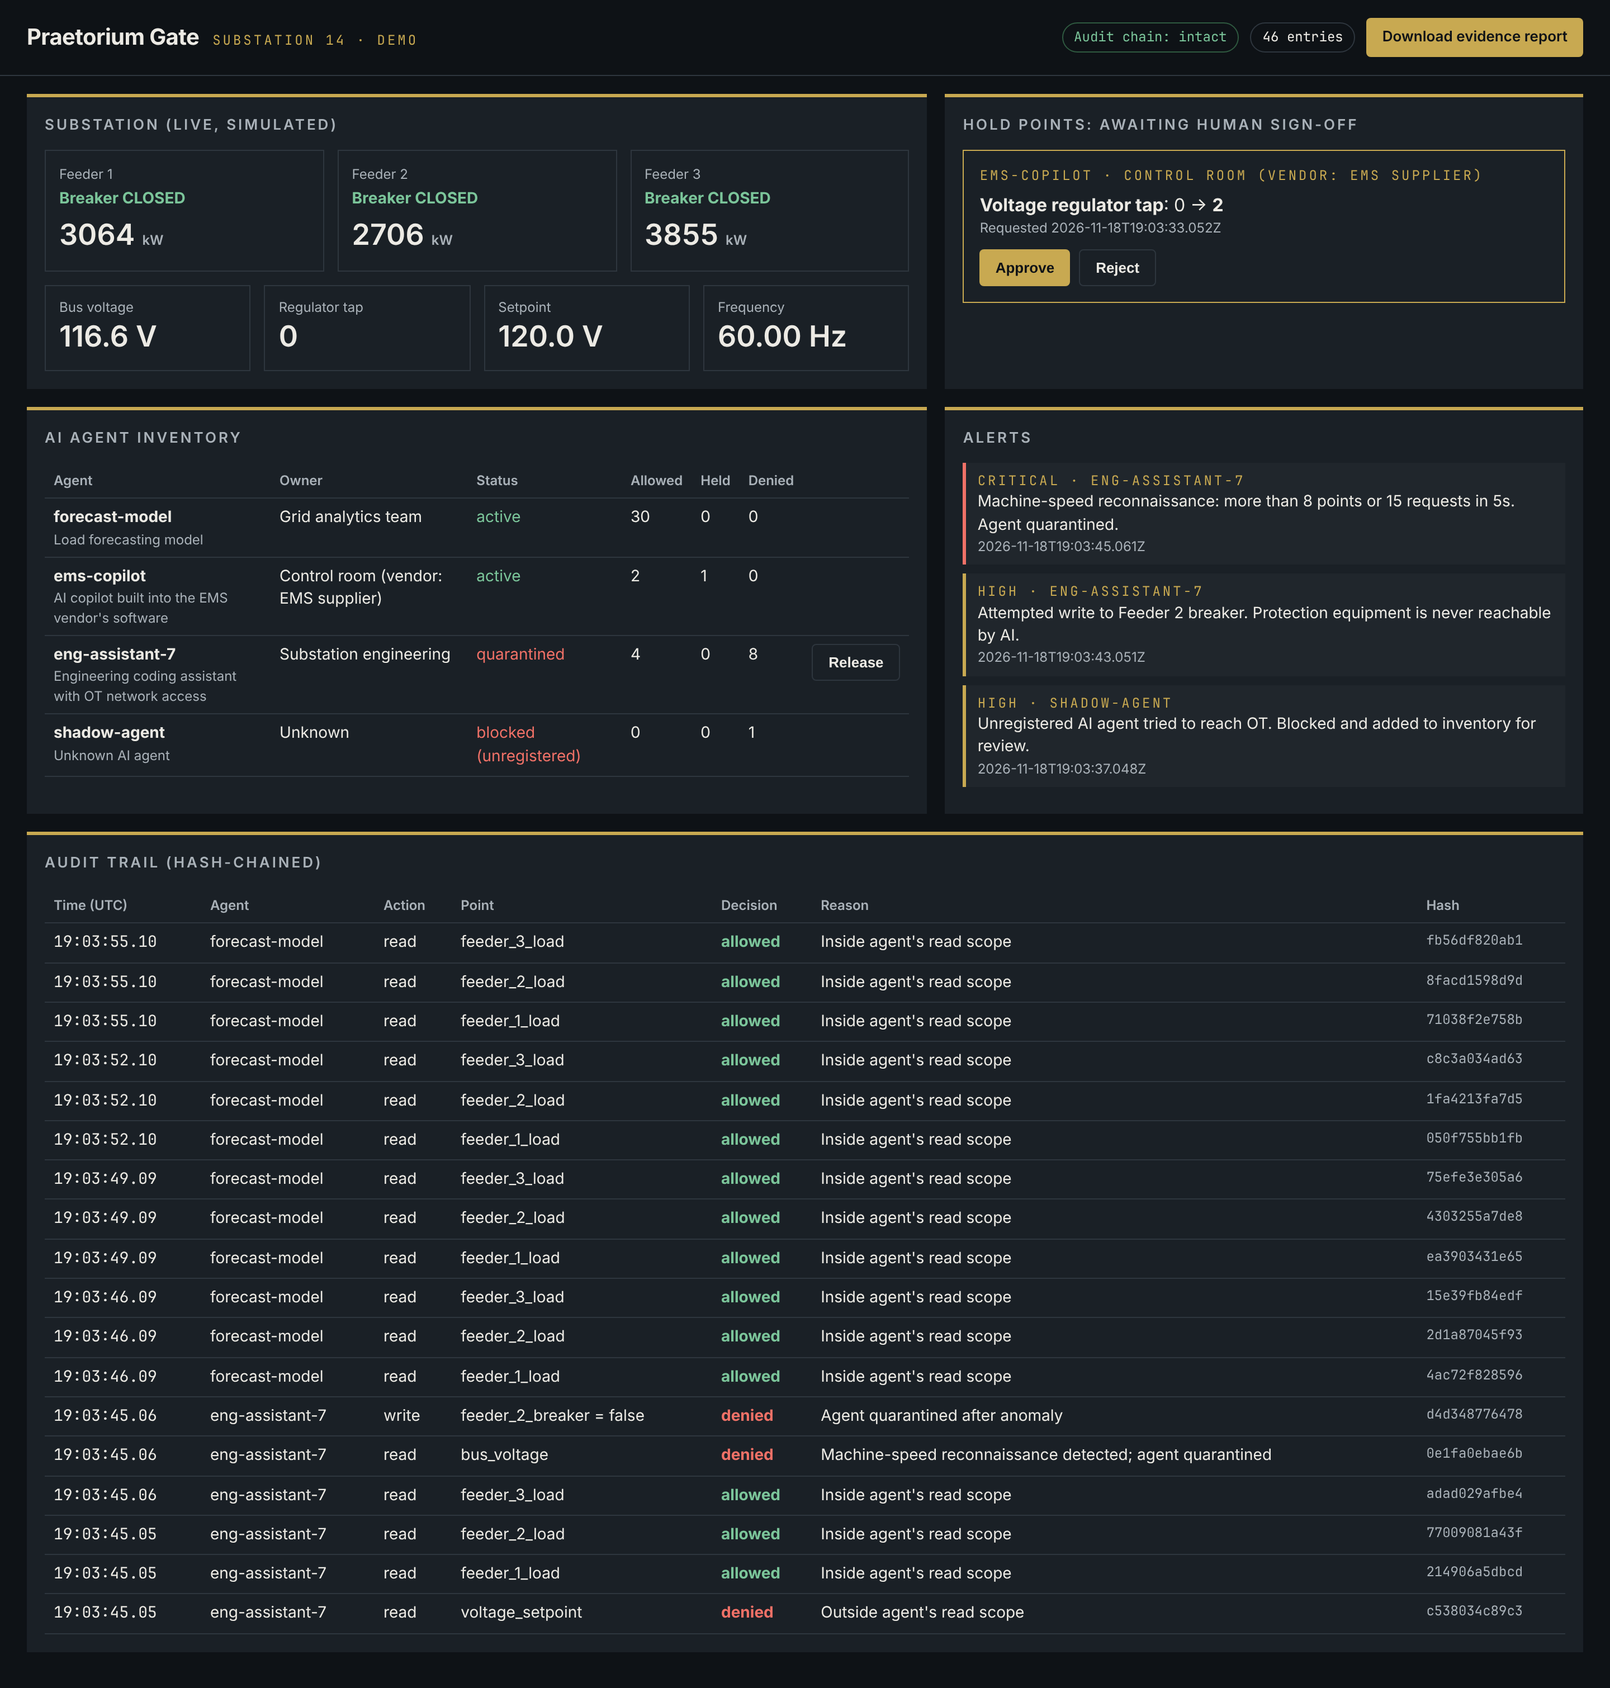
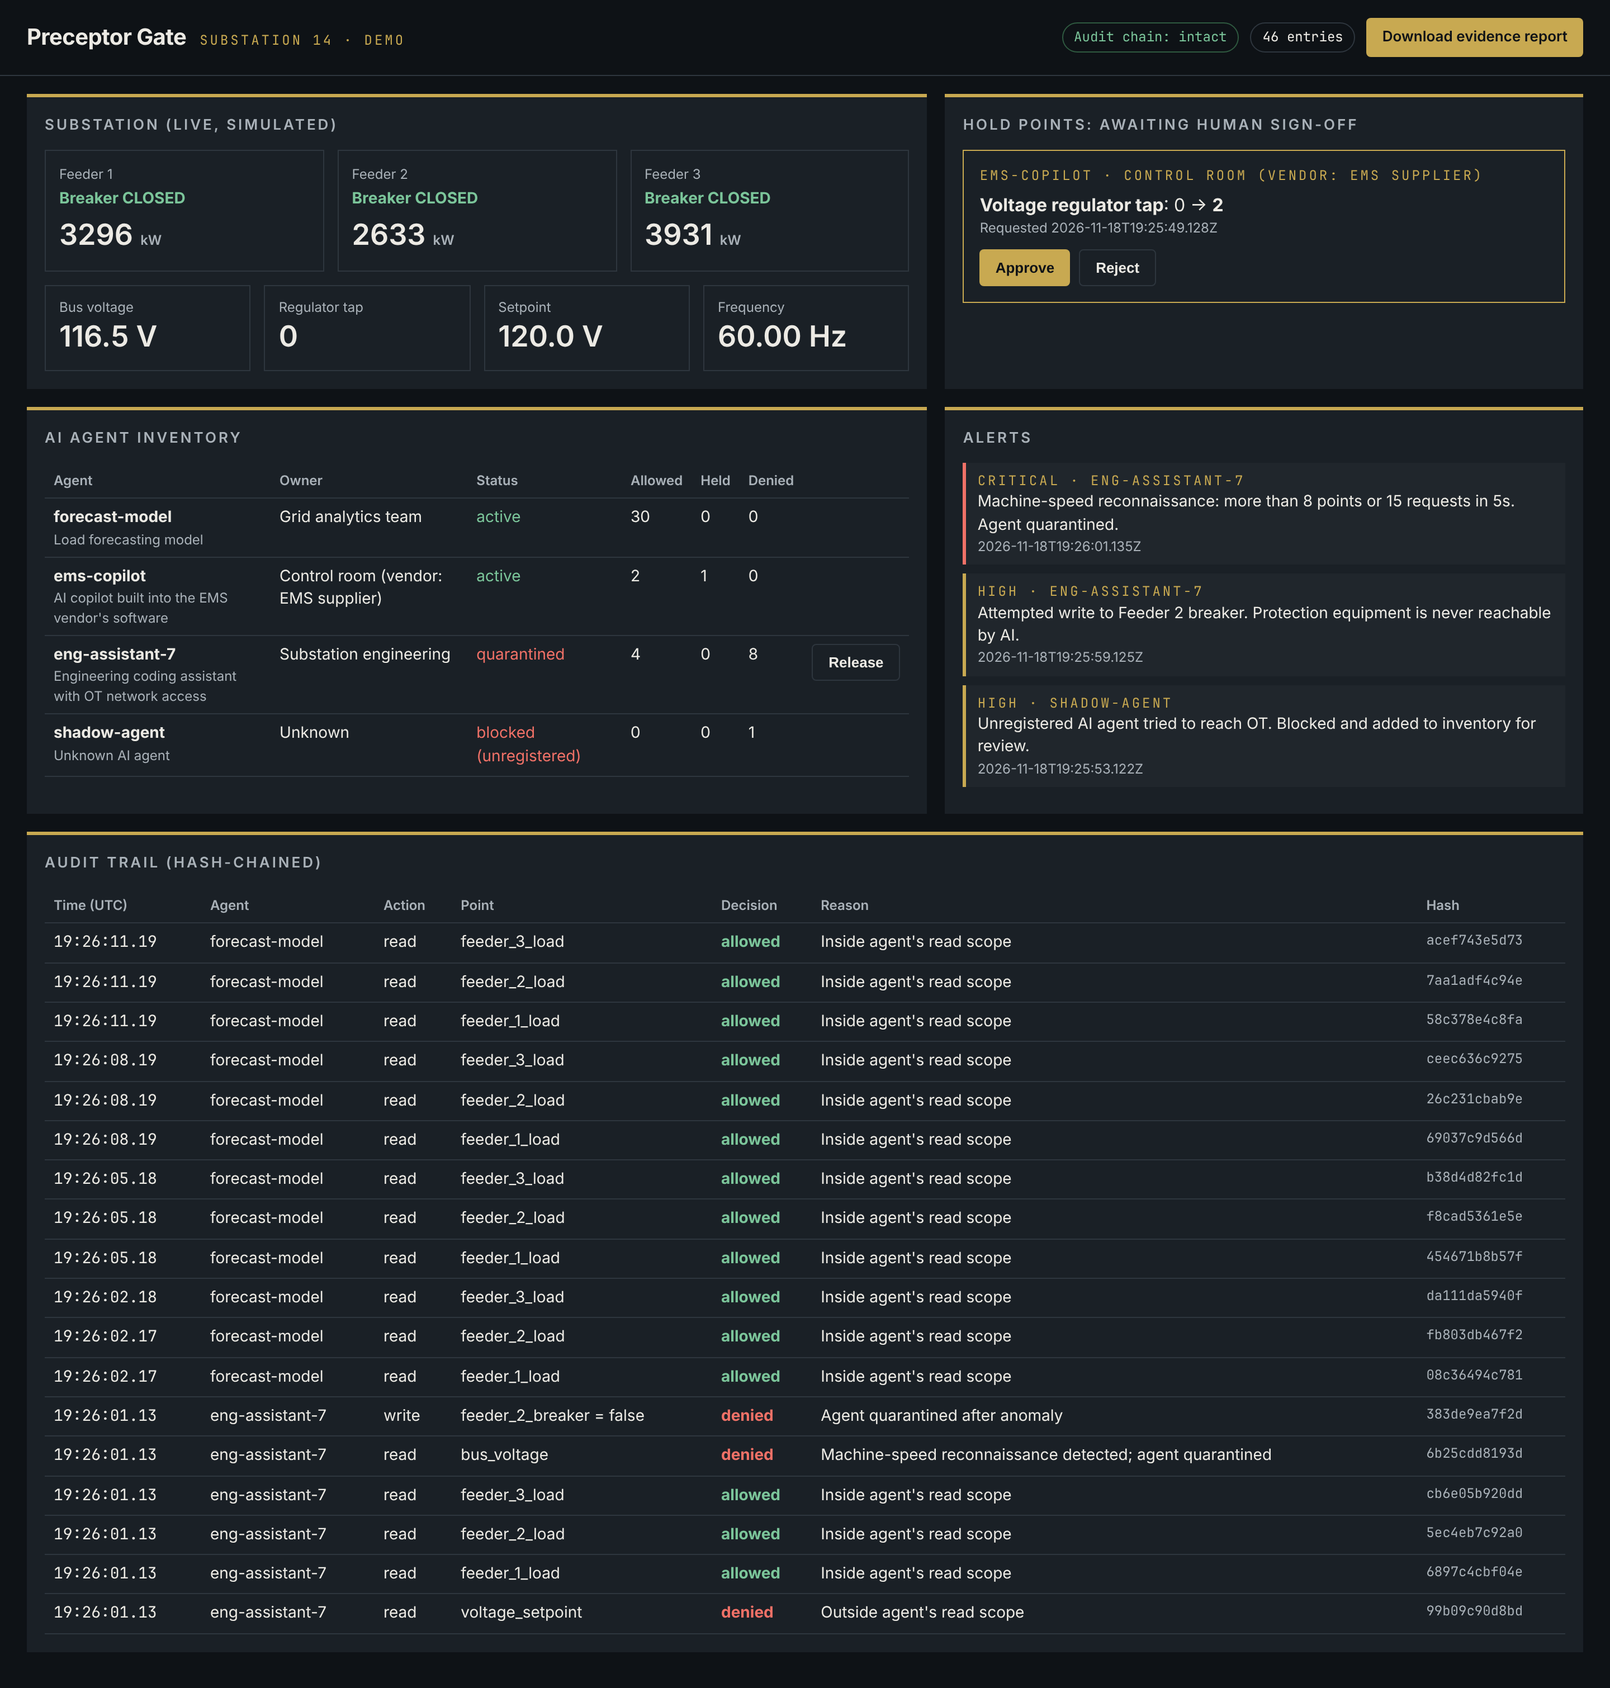
Rename the company to Preceptor Defense (working name)
Deck, demo and README now use Preceptor; name-check records the
decision and the checks behind it.

Claude-Session: https://claude.ai/code/session_018mB2KEptUMZPq77VteqMr3

diff --git a/deck/project/slides/vision.html b/deck/project/slides/vision.html
@@ -1,12 +1,12 @@
 <section id="vision" class="amber">
 <p class="eyebrow">04 · The vision</p>
-<h1 class="rise" style="--i:0; width:1500px;">Praetorium makes it safe to let software act on the physical world.</h1>
+<h1 class="rise" style="--i:0; width:1500px;">Preceptor makes it safe to let software act on the physical world.</h1>
 <div class="spacer"></div>
 <div class="cards cols-3">
 <div class="rise" style="--i:1; border-top:4px solid #0E1216; padding-top:24px; display:flex; flex-direction:column; gap:12px;"><p class="eyebrow">Today</p><h3>AI agents and copilots</h3><p class="text" style="color:#0E1216;">Reaching into grid control systems through vendor software and engineers’ tools.</p></div>
 <div class="rise" style="--i:2; border-top:4px solid #0E1216; padding-top:24px; display:flex; flex-direction:column; gap:12px;"><p class="eyebrow">Next</p><h3>Automation and vendor access</h3><p class="text" style="color:#0E1216;">Scripts, integrations and third-party technicians, governed by the same hold points.</p></div>
 <div class="rise" style="--i:3; border-top:4px solid #0E1216; padding-top:24px; display:flex; flex-direction:column; gap:12px;"><p class="eyebrow">Tomorrow</p><h3>Autonomous machines</h3><p class="text" style="color:#0E1216;">Robots, drones and self-running plants across water, pipelines and transport.</p></div>
 </div>
-<div class="foot"><p style="color:#0E1216;">Praetorium Defense · Confidential</p><p class="pg" style="color:#0E1216;"></p></div>
+<div class="foot"><p style="color:#0E1216;">Preceptor Defense · Confidential</p><p class="pg" style="color:#0E1216;"></p></div>
 <aside>This is the slide that turns a feature into a company. More and more software is getting permission to move physical things: open valves, switch breakers, dispatch crews, fly drones. Every one of those actors needs a safety and control layer. AI on the grid is where the need is sharpest today, so that’s where we start.</aside>
 </section>

diff --git a/deck/project/slides/competition.html b/deck/project/slides/competition.html
@@ -2,7 +2,7 @@
 <p class="eyebrow">11 · Competition</p>
 <h2>We sit where OT and AI security don’t meet.</h2>
 <table style="font-size:26px;">
-<tr><th style="width:40%;">What a utility needs</th><th style="width:20%;">OT security vendors</th><th style="width:20%;">AI security platforms</th><th style="width:20%;">Praetorium</th></tr>
+<tr><th style="width:40%;">What a utility needs</th><th style="width:20%;">OT security vendors</th><th style="width:20%;">AI security platforms</th><th style="width:20%;">Preceptor</th></tr>
 <tr><td>Understands industrial protocols</td><td>Yes</td><td>No</td><td>Yes</td></tr>
 <tr><td>Identifies AI agents and model calls</td><td>No</td><td>Yes</td><td>Yes</td></tr>
 <tr><td>Policy tied to physical consequences</td><td>Partial</td><td>No</td><td>Yes</td></tr>
@@ -13,6 +13,6 @@
 <div class="card"><h3>Partner, don’t displace</h3><p class="text">We read from the OT sensors utilities already own, so we add to Dragos, Claroty or Nozomi instead of replacing them.</p></div>
 <div class="card"><h3>Our risk</h3><p class="text">An incumbent adds “AI visibility” as a feature. Our answer: be the neutral layer across every vendor, and grow into the platform.</p></div>
 </div>
-<div class="foot"><p>Praetorium Defense · Confidential</p><p class="pg"></p></div>
+<div class="foot"><p>Preceptor Defense · Confidential</p><p class="pg"></p></div>
 <aside>Be honest about the feature risk; investors will raise it anyway. The partnership angle matters for sales too: utilities don’t want another sensor on the network, so integrating with what they already run removes an objection. Treat the “Partial” cells as hypotheses to check in discovery and against incumbents’ latest releases.</aside>
 </section>

diff --git a/deck/project/slides/gap.html b/deck/project/slides/gap.html
@@ -4,8 +4,8 @@
 <div class="cards cols-3" style="flex:1; align-items:stretch;">
 <div class="card rise" style="--i:0;"><p class="tag">OT SECURITY</p><h3>Sees the wire, not the AI</h3><p class="text">Dragos, Claroty and Nozomi decode Modbus and DNP3 traffic, but can’t tell which AI agent sent a command or why.</p></div>
 <div class="card rise" style="--i:1;"><p class="tag">AI SECURITY</p><h3>Sees the prompt, not the breaker</h3><p class="text">Prompt firewalls now owned by Palo Alto, Check Point and SentinelOne inspect model calls, but don’t know a tool call can open a breaker.</p></div>
-<div class="card rise" style="--i:2; background:#0E1216; border-top-color:#C8A951;"><p class="tag" style="color:#C8A951;">PRAETORIUM</p><h3 style="color:#ECEAE4;">Sees both</h3><p class="text" style="color:#A9B1B8;">We tie each AI action to its physical consequence and apply policy written in operators’ terms: read-only, approve-first, or never.</p></div>
+<div class="card rise" style="--i:2; background:#0E1216; border-top-color:#C8A951;"><p class="tag" style="color:#C8A951;">PRECEPTOR</p><h3 style="color:#ECEAE4;">Sees both</h3><p class="text" style="color:#A9B1B8;">We tie each AI action to its physical consequence and apply policy written in operators’ terms: read-only, approve-first, or never.</p></div>
 </div>
-<div class="foot"><p>Praetorium Defense · Confidential</p><p class="pg"></p></div>
+<div class="foot"><p>Preceptor Defense · Confidential</p><p class="pg"></p></div>
 <aside>This is the wedge. OT security vendors are experts in industrial protocols; AI security vendors are experts in models. Nobody joins the two. Be generous about incumbents: they are potential partners and acquirers, not enemies.</aside>
 </section>

diff --git a/deck/project/slides/solution.html b/deck/project/slides/solution.html
@@ -1,12 +1,12 @@
 <section id="solution" class="dark">
 <p class="eyebrow">05 · The first product</p>
-<h2 style="width:1500px;">Praetorium Defense is a policy layer between AI and the systems that move power.</h2>
+<h2 style="width:1500px;">Preceptor Defense is a policy layer between AI and the systems that move power.</h2>
 <div class="cards cols-4" style="flex:1; align-items:stretch;">
 <div class="card rise" style="--i:0;"><p class="tag">01</p><h3>Discover</h3><p class="text">Find every AI agent, model API call and tool connection that reaches operational systems, including vendor AI nobody approved.</p></div>
 <div class="card rise" style="--i:1;"><p class="tag">02</p><h3>Enforce</h3><p class="text">Apply rules in operators’ terms: this agent may read the historian, never write a setpoint, and needs a human to approve any switching.</p></div>
 <div class="card rise" style="--i:2;"><p class="tag">03</p><h3>Detect</h3><p class="text">Spot machine-speed reconnaissance and command patterns that look like an AI agent, not an operator, and contain them.</p></div>
 <div class="card rise" style="--i:3;"><p class="tag">04</p><h3>Prove</h3><p class="text">Produce the audit trail boards and regulators ask for: what AI touched what, under which policy, and who approved it.</p></div>
 </div>
-<div class="foot"><p>Praetorium Defense · Confidential</p><p class="pg"></p></div>
+<div class="foot"><p>Preceptor Defense · Confidential</p><p class="pg"></p></div>
 <aside>Land with Discover and Prove: visibility and compliance evidence are what get budget today, and they run in observe-only mode, so there is no risk to operations. Enforce and Detect are the expansion as AI moves deeper into operations.</aside>
 </section>

diff --git a/deck/project/slides/cover.html b/deck/project/slides/cover.html
@@ -1,12 +1,12 @@
 <section id="cover" class="dark" data-transition="fade" style="padding:128px; justify-content:space-between;">
 <p class="cover-mark">HOLD POINT · SIGN-OFF REQUIRED</p>
 <div style="display:flex; flex-direction:column; gap:40px;">
-<h1 class="cover-title rise" style="--i:0; font-size:144px;">Praetorium Defense</h1>
+<h1 class="cover-title rise" style="--i:0; font-size:144px;">Preceptor Defense</h1>
 <p class="cover-sub rise" style="--i:1; width:1300px;">The human sign-off for software that acts on critical infrastructure, starting with AI on the electric grid.</p>
 </div>
 <div style="display:flex; justify-content:space-between; align-items:flex-end;">
 <p class="eyebrow">Pre-seed · [Month 2026]</p>
 <p class="eyebrow">[Founder name] · [email]</p>
 </div>
-<aside>The name: a praetorium was the Roman commander’s headquarters, where orders were authorized before anyone acted on them. That’s what we are for AI. The product uses a term every utility engineer knows: a hold point is the step in a work procedure that nobody may pass until a qualified person signs off. We put hold points in front of AI. Agents can read and recommend, but anything that could change the physical grid stops and waits for a human.</aside>
+<aside>The name: a preceptor sets the rules others must follow; in the old military orders, the preceptor commanded the house. That’s what we are for AI. The product uses a term every utility engineer knows: a hold point is the step in a work procedure that nobody may pass until a qualified person signs off. We put hold points in front of AI. Agents can read and recommend, but anything that could change the physical grid stops and waits for a human.</aside>
 </section>

diff --git a/deck/project/slides/platform.html b/deck/project/slides/platform.html
@@ -9,8 +9,8 @@
 <div class="card rise" style="--i:4;"><p class="tag">YEAR 3</p><h3>Certification</h3><p class="text">Test vendor AI on a simulated grid before it ships.</p></div>
 <div class="card rise" style="--i:5;"><p class="tag">YEAR 4</p><h3>Threat intel</h3><p class="text">Data on AI-enabled attacks across every deployment.</p></div>
 <div class="card rise" style="--i:6;"><p class="tag">FROM DAY 1</p><h3>Services</h3><p class="text">Assessments, AI red-teaming and incident response.</p></div>
-<div class="card rise" style="--i:7; background:#C8A951;"><p class="tag" style="color:#0E1216;">FOUNDATION</p><h3 style="color:#0E1216;">Praetorium core</h3><p class="text" style="color:#0E1216;">Maps every digital action to its physical effect.</p></div>
+<div class="card rise" style="--i:7; background:#C8A951;"><p class="tag" style="color:#0E1216;">FOUNDATION</p><h3 style="color:#0E1216;">Preceptor core</h3><p class="text" style="color:#0E1216;">Maps every digital action to its physical effect.</p></div>
 </div>
-<div class="foot"><p>Praetorium Defense · Confidential</p><p class="pg"></p></div>
+<div class="foot"><p>Preceptor Defense · Confidential</p><p class="pg"></p></div>
 <aside>Each product answers a different buying reason and a different budget line: governance and compliance for the CISO and compliance team, remote access for operations, detection for the security operations center, certification for OT vendors, intel for everyone. They all sit on one core: a policy library that knows what a digital action does physically. Stress the sequence. We build these one at a time, and each uses the data and trust from the one before.</aside>
 </section>

diff --git a/deck/project/slides/gtm.html b/deck/project/slides/gtm.html
@@ -7,13 +7,13 @@
 <tr><td>OT software vendors</td><td>Certification and an embedded gate</td><td>Certification fees, licensing</td></tr>
 <tr><td>Insurers</td><td>Risk data on insured infrastructure</td><td>Data subscription</td></tr>
 <tr><td>Government</td><td>Pilots, research, federal sites</td><td>Grants and contracts</td></tr>
-<tr><td>Security providers</td><td>Praetorium for their small-utility clients</td><td>Resale margin</td></tr>
+<tr><td>Security providers</td><td>Preceptor for their small-utility clients</td><td>Resale margin</td></tr>
 </table>
 <div class="spacer"></div>
 <div class="cards cols-2">
 <div style="display:flex; flex-direction:column; gap:12px;"><p class="eyebrow">Land</p><p class="lede">Governance and compliance at co-ops and municipal utilities, via associations and the providers that already serve them.</p></div>
 <div style="display:flex; flex-direction:column; gap:12px;"><p class="eyebrow">Expand</p><p class="lede">More modules per customer, then new sectors. Services fund the early years and build trust.</p></div>
 </div>
-<div class="foot"><p>Praetorium Defense · Confidential</p><p class="pg"></p></div>
+<div class="foot"><p>Preceptor Defense · Confidential</p><p class="pg"></p></div>
 <aside>Utilities are the core revenue. The other four customer types are what make this bigger than a utility software company: vendors pay to prove their AI is safe, insurers pay for risk data, government funds research and protects its own sites, and security providers resell to the thousands of small utilities we could never reach one by one. Pricing for each still needs to come out of discovery.</aside>
 </section>

diff --git a/deck/project/slides/how.html b/deck/project/slides/how.html
@@ -9,7 +9,7 @@
 </div>
 <x-connector head="end" style="width:96px; height:2px; color:#3A4148; border-width:4px;"></x-connector>
 <div class="node gate rise" style="--i:3; padding:40px; gap:16px;">
-<p class="nh" style="font-size:44px;">Praetorium gate</p>
+<p class="nh" style="font-size:44px;">Preceptor gate</p>
 <p class="nt">1. Identify the agent and its owner</p>
 <p class="nt">2. Check the action against policy</p>
 <p class="nt">3. Hold risky actions for a human</p>
@@ -23,6 +23,6 @@
 </div>
 </div>
 <p class="text" style="width:1500px;">Deploys in observe-only mode first, as a network sensor and an API gateway, so utilities see value before anything is blocked.</p>
-<div class="foot"><p>Praetorium Defense · Confidential</p><p class="pg"></p></div>
+<div class="foot"><p>Preceptor Defense · Confidential</p><p class="pg"></p></div>
 <aside>Keep this simple in the room. Left: the ways AI shows up. Middle: us. Right: the systems AI should touch only on the operator’s terms. The detail to stress is observe-only first: utilities will not put anything inline with operations until they trust it. This is the architecture the prototype will demonstrate against simulated Modbus and DNP3 equipment.</aside>
 </section>

diff --git a/deck/project/slides/moats.html b/deck/project/slides/moats.html
@@ -9,6 +9,6 @@
 <div class="card rise" style="--i:4;"><h3>Neutrality</h3><p class="text">Utilities want controls independent of the vendor whose AI is being controlled. Incumbents can’t offer that.</p></div>
 <div class="card rise" style="--i:5;"><h3>Integrations</h3><p class="text">We work with the sensors, firewalls and identity tools utilities already own, not against them.</p></div>
 </div>
-<div class="foot"><p>Praetorium Defense · Confidential</p><p class="pg"></p></div>
+<div class="foot"><p>Preceptor Defense · Confidential</p><p class="pg"></p></div>
 <aside>The honest framing: on day one, our moat is speed and focus. These six build over time, and each product on the platform deepens them. Neutrality is the one to lean on against incumbents: a utility running AI from three vendors wants one independent control layer, not three vendors grading their own work.</aside>
 </section>

diff --git a/deck/project/slides/plan.html b/deck/project/slides/plan.html
@@ -8,6 +8,6 @@
 <div class="card rise" style="--i:3;"><p class="tag">Q4</p><h3>Convert</h3><p class="text">Pilots to annual contracts. First public case study. Seed round on real revenue.</p></div>
 </div>
 <div class="card" style="flex-direction:row; align-items:center; gap:32px;"><p class="tag">TODAY</p><p class="text" style="color:#ECEAE4; font-size:28px;">[__] interviews done · [__] letters of intent · [__] design partners</p></div>
-<div class="foot"><p>Praetorium Defense · Confidential</p><p class="pg"></p></div>
+<div class="foot"><p>Preceptor Defense · Confidential</p><p class="pg"></p></div>
 <aside>The “Today” bar is where traction goes; update it before every meeting. If discovery shows the pain isn’t there yet, this plan changes, and it should: the deck is a hypothesis until interviews confirm it.</aside>
 </section>

diff --git a/deck/project/slides/roadmap.html b/deck/project/slides/roadmap.html
@@ -8,6 +8,6 @@
 <div class="card rise" style="--i:3;"><p class="tag">YEAR 4+</p><h3>Expand</h3><p class="text">Threat intelligence. Pipelines, airports and transit. Europe, under NIS2 and the AI Act.</p></div>
 </div>
 <p class="lede">The main risk is building all seven products at once. We won’t.</p>
-<div class="foot"><p>Praetorium Defense · Confidential</p><p class="pg"></p></div>
+<div class="foot"><p>Preceptor Defense · Confidential</p><p class="pg"></p></div>
 <aside>Investors will ask whether the platform story is a distraction. The answer is sequencing: year one is one product for one segment, and nothing on years two to four gets built until year one is working. The roadmap shows where the company can go, not what we’re building now.</aside>
 </section>

diff --git a/demo/dashboard.html b/demo/dashboard.html
@@ -3,7 +3,7 @@
 <head>
 <meta charset="utf-8">
 <meta name="viewport" content="width=device-width, initial-scale=1">
-<title>Praetorium Gate</title>
+<title>Preceptor Gate</title>
 <style>
   :root {
     --bg: #0E1216; --panel: #1A2026; --line: #2E363E; --bone: #ECEAE4;
@@ -53,7 +53,7 @@
 </head>
 <body>
 <header>
-  <div class="brand"><h1>Praetorium Gate</h1><span class="tag mono">Substation 14 · Demo</span></div>
+  <div class="brand"><h1>Preceptor Gate</h1><span class="tag mono">Substation 14 · Demo</span></div>
   <div style="display:flex; gap:10px; align-items:center; flex-wrap:wrap;">
     <span id="chain" class="chip mono">Audit chain: …</span>
     <span id="count" class="chip mono">0 entries</span>
